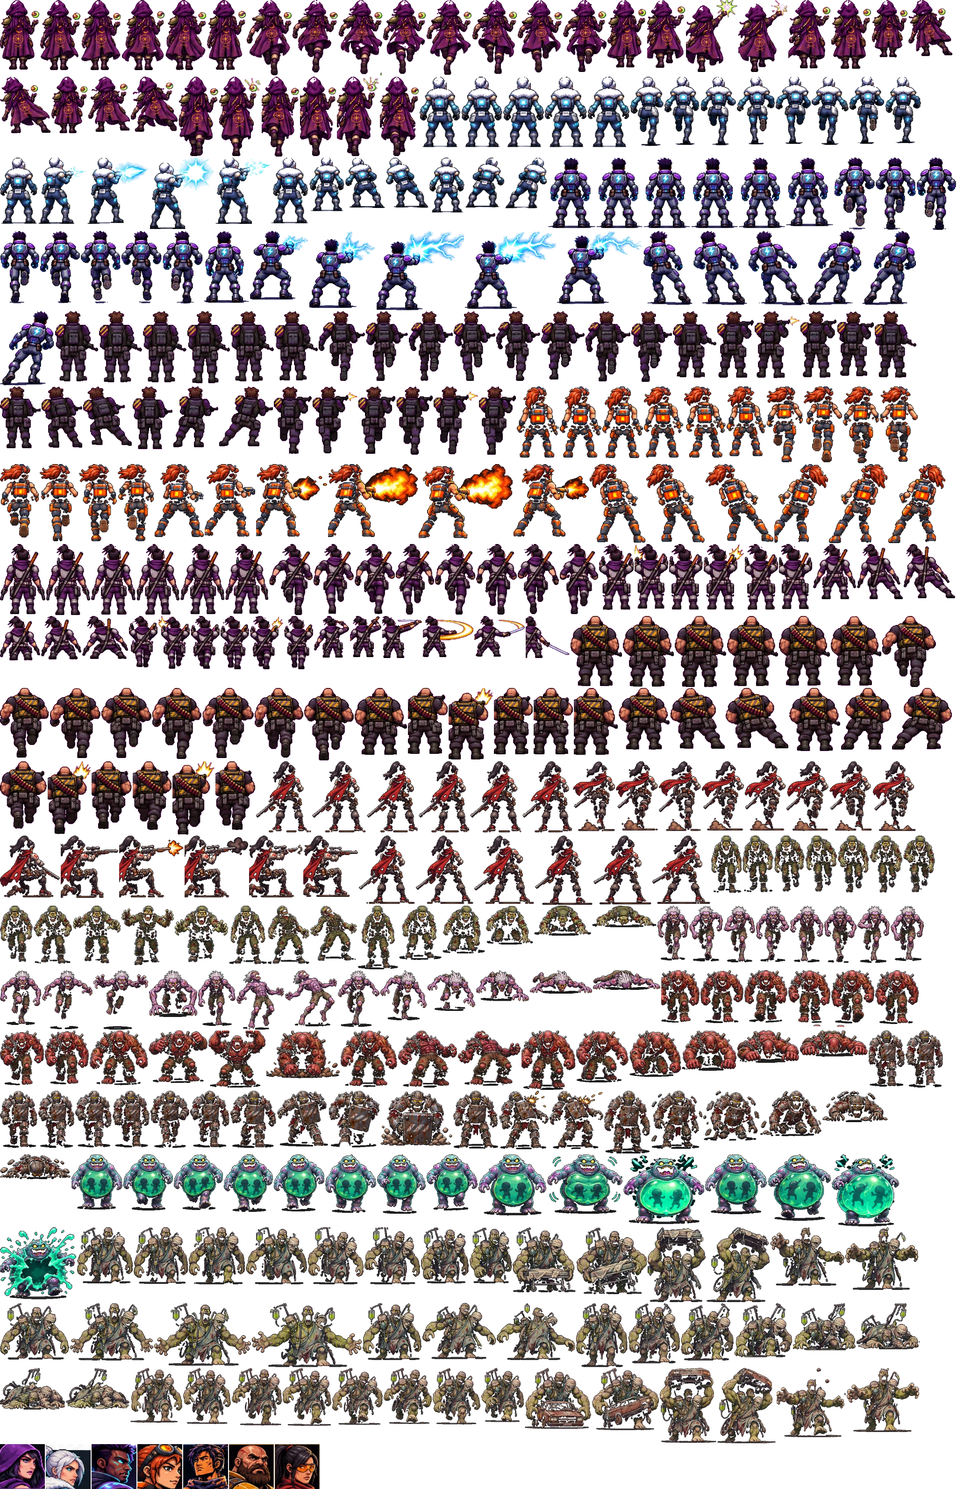
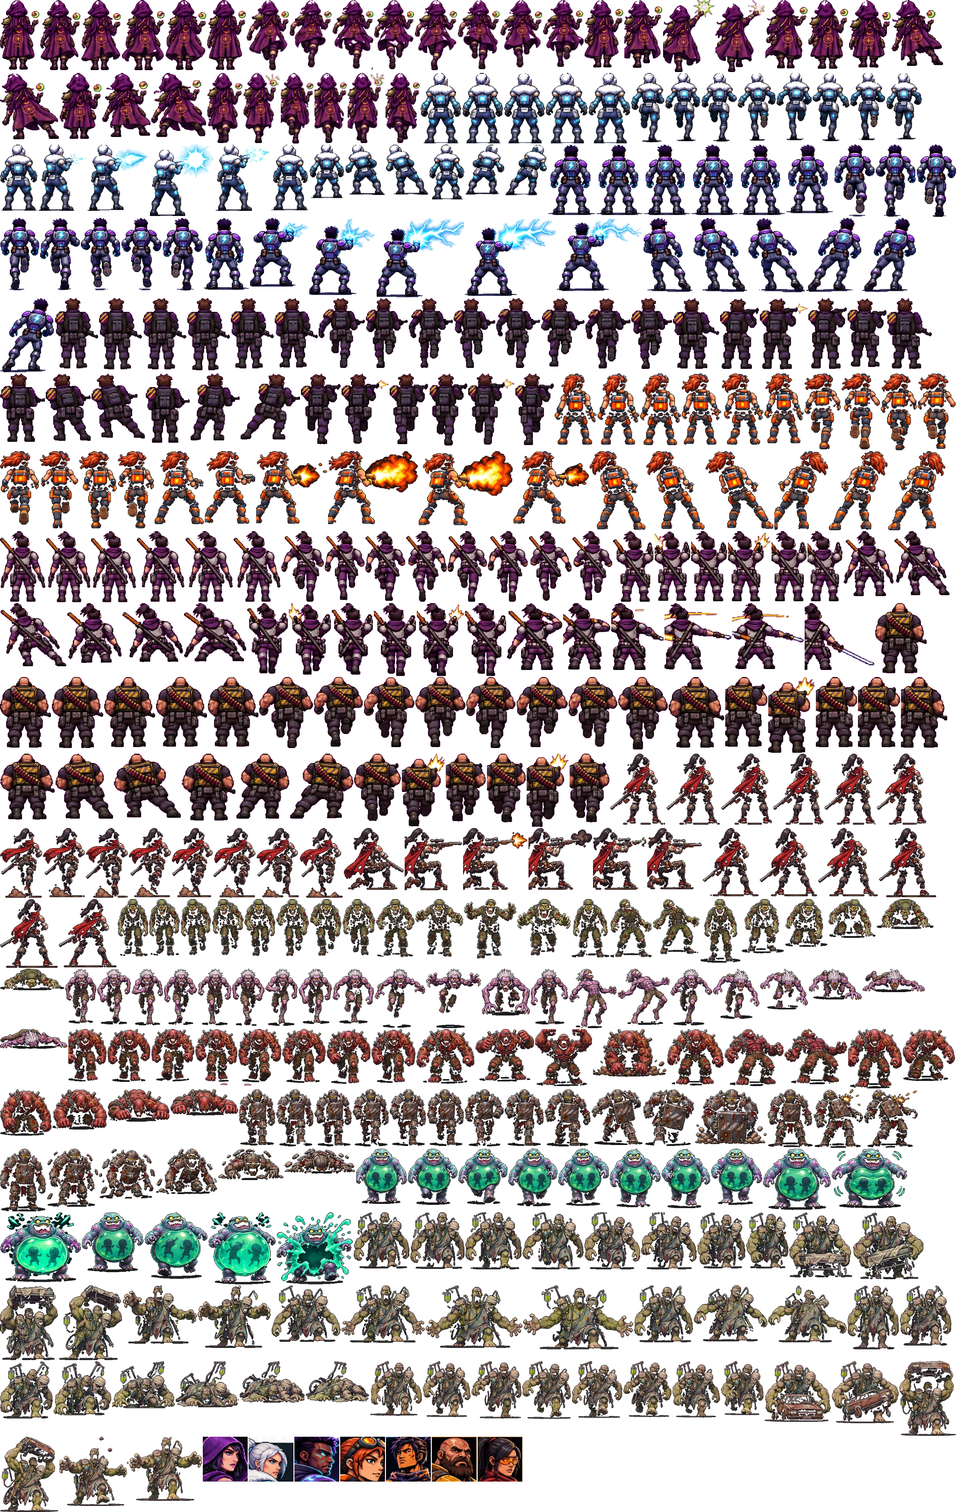
Rook: corrected katana side; keep every hero animation the same size
Claude-Session: https://claude.ai/code/session_011TPi5fyk4GLuTR427GHKeK

diff --git a/game.js b/game.js
@@ -141,8 +141,8 @@ const SND=(()=>{
     set intensity(v){intensity=v;},get pref(){return pref;}};
 })();
 
-const ATLAS_SRC="assets/atlas.webp?v=e161c6fba7";
-const ATL_DATA={"rects":[[0,0,84,149,42,150],[86,0,86,150,43,150],[174,0,85,150,42,150],[261,0,91,150,45,150],[354,0,87,150,43,150],[443,0,83,150,41,150],[528,0,96,161,48,161],[626,0,97,155,48,161],[725,0,93,162,46,161],[820,0,91,158,45,161],[913,0,96,160,48,160],[1011,0,95,158,47,160],[1108,0,95,155,47,159],[1205,0,93,154,46,159],[1300,0,83,145,36,145],[1385,0,81,145,36,145],[1468,0,110,154,32,154],[1580,0,105,154,36,154],[1687,0,90,147,39,146],[1779,0,85,147,39,146],[1866,0,76,123,37,123],[1944,0,94,120,47,120],[0,164,108,121,54,120],[110,164,77,121,38,124],[189,164,89,118,44,123],[280,164,100,118,50,121],[382,164,85,170,37,170],[469,164,89,170,37,170],[560,164,80,171,40,170],[642,164,77,170,33,170],[721,164,90,170,34,170],[813,164,83,170,39,170],[898,164,87,151,43,150],[987,164,88,151,44,150],[1077,164,87,151,43,150],[1166,164,90,151,45,150],[1258,164,89,151,44,150],[1349,164,71,149,36,148],[1422,164,75,146,37,147],[1499,164,76,147,38,148],[1577,164,81,145,40,146],[1660,164,75,144,37,145],[1737,164,79,146,39,147],[1818,164,74,144,36,145],[1894,164,77,143,39,147],[0,337,80,142,41,143],[82,337,103,142,39,142],[187,337,131,142,39,144],[320,337,139,153,38,154],[461,337,117,142,39,142],[580,337,80,141,40,140],[662,337,75,115,37,114],[739,337,85,108,42,109],[826,337,91,108,45,109],[919,337,75,118,37,117],[996,337,83,108,42,110],[1081,337,90,109,45,110],[1173,337,101,151,50,150],[1276,337,99,151,49,150],[1377,337,100,151,50,150],[1479,337,100,151,50,150],[1581,337,99,151,49,150],[1682,337,101,147,50,146],[1785,337,87,154,44,154],[1874,337,86,155,43,155],[1962,337,84,155,42,155],[0,494,84,155,42,155],[86,494,85,155,42,155],[173,494,85,155,42,155],[260,494,86,155,43,155],[348,494,86,156,43,155],[436,494,97,154,48,153],[535,494,125,147,44,148],[662,494,142,165,45,165],[806,494,187,170,45,171],[995,494,195,167,54,169],[1192,494,183,157,53,158],[1377,494,105,159,52,158],[1484,494,115,159,56,158],[1601,494,122,159,61,159],[1725,494,118,159,59,158],[1845,494,115,159,58,158],[0,666,116,159,58,158],[118,666,92,150,46,149],[212,666,92,152,46,151],[306,666,93,152,46,151],[401,666,91,154,46,153],[494,666,92,150,46,149],[588,666,92,148,46,147],[682,666,99,149,49,148],[783,666,90,149,45,149],[875,666,94,149,46,151],[971,666,89,149,44,149],[1062,666,94,149,46,149],[1158,666,93,146,46,149],[1253,666,96,150,47,150],[1351,666,87,151,43,151],[1440,666,93,142,39,141],[1535,666,78,142,33,142],[1615,666,96,143,34,142],[1713,666,77,142,34,141],[1792,666,78,139,35,138],[1872,666,89,142,38,141],[0,827,87,132,43,132],[89,827,87,131,43,130],[178,827,104,127,52,127],[284,827,85,134,42,133],[371,827,96,130,47,130],[469,827,115,128,57,128],[586,827,81,144,34,143],[669,827,96,143,35,143],[767,827,79,144,32,143],[848,827,78,146,33,146],[928,827,95,145,33,144],[1025,827,79,146,32,145],[1106,827,90,152,45,150],[1198,827,89,152,45,150],[1289,827,87,153,44,151],[1378,827,84,152,42,150],[1464,827,89,152,45,150],[1555,827,84,149,42,147],[1641,827,77,162,38,160],[1720,827,82,162,41,160],[1804,827,77,164,38,162],[1883,827,81,161,40,159],[0,993,83,157,41,163],[85,993,82,165,41,163],[169,993,81,165,41,163],[252,993,77,165,38,163],[331,993,105,156,52,155],[438,993,108,155,45,153],[548,993,152,155,41,153],[702,993,192,156,46,155],[896,993,201,159,52,157],[1099,993,161,155,55,153],[1262,993,119,168,59,167],[1383,993,125,168,63,166],[1510,993,145,166,73,165],[1657,993,115,168,56,166],[1774,993,125,169,62,167],[1901,993,122,169,61,167],[0,1164,97,150,49,150],[99,1164,94,152,47,151],[195,1164,95,151,47,150],[292,1164,92,151,46,150],[386,1164,94,150,47,150],[482,1164,92,149,46,148],[576,1164,93,152,47,151],[671,1164,86,150,43,151],[759,1164,86,150,43,151],[847,1164,82,151,41,150],[931,1164,86,151,43,150],[1019,1164,87,151,43,150],[1108,1164,88,150,44,150],[1198,1164,82,150,41,150],[1282,1164,74,141,37,140],[1358,1164,72,139,35,139],[1432,1164,72,141,34,140],[1506,1164,86,140,35,140],[1594,1164,71,141,34,140],[1667,1164,71,140,34,139],[1740,1164,92,118,46,118],[1834,1164,98,118,49,117],[1934,1164,110,116,55,115],[0,1318,86,95,43,94],[88,1318,86,93,43,92],[176,1318,98,92,49,92],[276,1318,61,110,28,109],[339,1318,67,113,35,112],[408,1318,62,113,29,112],[472,1318,61,114,31,113],[535,1318,71,114,29,113],[608,1318,62,114,32,113],[672,1318,75,89,31,89],[749,1318,67,88,29,88],[818,1318,85,90,24,90],[905,1318,108,88,24,88],[1015,1318,108,87,30,87],[1125,1318,94,90,40,89],[1221,1318,110,150,55,150],[1333,1318,109,151,54,151],[1444,1318,110,152,55,152],[1556,1318,109,150,54,150],[1667,1318,109,149,54,148],[1778,1318,108,149,54,149],[1888,1318,115,152,57,154],[0,1472,105,149,52,153],[107,1472,108,150,54,154],[217,1472,107,150,53,153],[326,1472,105,152,52,154],[433,1472,110,150,56,154],[545,1472,104,149,52,155],[651,1472,106,155,53,157],[759,1472,112,143,52,142],[873,1472,85,141,36,140],[960,1472,95,153,37,152],[1057,1472,83,142,36,141],[1142,1472,84,142,35,141],[1228,1472,94,143,36,142],[1324,1472,109,132,54,131],[1435,1472,116,130,57,130],[1553,1472,134,130,67,130],[1689,1472,109,135,54,135],[1800,1472,107,132,53,133],[1909,1472,128,132,63,133],[0,1629,100,144,50,144],[102,1629,92,156,37,156],[196,1629,86,145,37,145],[284,1629,83,147,37,147],[369,1629,90,157,34,156],[461,1629,85,147,37,147],[548,1629,118,152,54,150],[668,1629,115,152,55,150],[785,1629,109,152,55,150],[896,1629,108,152,54,150],[1006,1629,110,152,54,150],[1118,1629,106,152,53,150],[1226,1629,90,150,46,148],[1318,1629,90,148,45,148],[1410,1629,90,149,45,148],[1502,1629,90,148,45,148],[1594,1629,87,148,43,148],[1683,1629,90,149,45,148],[1775,1629,91,149,45,148],[1868,1629,92,149,46,148],[0,1788,128,132,55,130],[130,1788,123,133,41,131],[255,1788,138,132,41,130],[395,1788,136,132,43,130],[533,1788,114,132,44,130],[649,1788,117,131,41,129],[768,1788,120,146,59,144],[890,1788,123,146,60,144],[1015,1788,128,146,63,144],[1145,1788,123,148,61,146],[1270,1788,124,147,62,145],[1396,1788,124,146,61,144],[1522,1788,65,123,32,121],[1589,1788,66,121,33,120],[1657,1788,65,120,32,119],[1724,1788,67,120,33,119],[1793,1788,66,122,33,121],[1861,1788,70,122,35,121],[1933,1788,68,121,33,120],[0,1938,70,120,35,119],[72,1938,82,124,41,123],[156,1938,102,123,50,122],[260,1938,112,127,56,125],[374,1938,114,121,57,119],[490,1938,81,125,41,123],[573,1938,89,125,44,124],[664,1938,100,118,50,117],[766,1938,86,136,43,135],[854,1938,91,116,45,115],[947,1938,91,102,45,102],[1040,1938,101,83,47,82],[1143,1938,122,64,58,63],[1267,1938,138,46,65,45],[1407,1938,66,117,33,115],[1475,1938,72,119,36,118],[1549,1938,67,121,33,121],[1618,1938,71,120,35,119],[1691,1938,71,121,35,121],[1764,1938,69,122,34,121],[1835,1938,69,122,34,121],[1906,1938,71,118,35,117],[0,2076,88,117,44,115],[90,2076,108,126,54,125],[200,2076,117,127,59,126],[319,2076,103,100,51,98],[424,2076,80,119,40,117],[506,2076,102,127,51,126],[610,2076,111,120,55,119],[723,2076,89,121,44,122],[814,2076,99,107,49,107],[915,2076,102,87,51,87],[1019,2076,113,67,56,66],[1134,2076,133,50,67,52],[1269,2076,144,42,72,41],[1415,2076,82,112,41,118],[1499,2076,92,113,46,120],[1593,2076,92,112,46,118],[1687,2076,90,120,45,119],[1779,2076,92,121,46,120],[1873,2076,93,115,46,122],[0,2205,94,117,47,123],[96,2205,94,115,47,122],[192,2205,124,117,62,116],[318,2205,126,112,63,112],[446,2205,122,122,61,122],[570,2205,157,102,76,101],[729,2205,121,121,60,120],[852,2205,126,122,63,121],[980,2205,134,118,67,117],[1116,2205,115,127,57,126],[1233,2205,112,111,56,110],[1347,2205,110,99,55,98],[1459,2205,117,86,58,85],[1578,2205,132,69,66,68],[1712,2205,145,56,71,55],[1859,2205,77,120,38,119],[1938,2205,80,122,40,120],[0,2334,80,122,40,120],[82,2334,77,122,38,121],[161,2334,78,121,39,120],[241,2334,79,121,39,120],[322,2334,83,122,41,120],[407,2334,84,121,42,120],[493,2334,98,122,49,124],[593,2334,109,119,54,120],[704,2334,108,121,54,121],[814,2334,154,117,77,116],[970,2334,96,124,48,123],[1068,2334,106,125,53,124],[1176,2334,115,125,58,124],[1293,2334,99,134,49,132],[1394,2334,109,124,51,123],[1505,2334,120,107,60,106],[1627,2334,131,97,65,97],[1760,2334,140,67,69,67],[0,2470,151,53,75,53],[153,2470,109,118,54,118],[264,2470,106,120,53,119],[372,2470,105,119,52,118],[479,2470,105,123,52,122],[586,2470,108,122,54,121],[696,2470,109,125,55,125],[807,2470,104,127,52,126],[913,2470,109,120,55,118],[1024,2470,145,131,72,132],[1171,2470,161,127,81,127],[1334,2470,173,149,86,148],[1509,2470,132,128,66,127],[1643,2470,135,142,67,140],[1780,2470,144,154,72,153],[0,2626,163,154,83,153],[165,2626,119,120,59,119],[286,2626,116,121,58,120],[404,2626,120,122,60,120],[526,2626,131,122,65,120],[659,2626,119,122,59,120],[780,2626,119,122,59,120],[901,2626,102,120,51,118],[1005,2626,90,120,45,118],[1097,2626,135,139,68,137],[1234,2626,150,143,76,141],[1386,2626,124,160,61,159],[1512,2626,135,160,64,159],[1649,2626,158,125,76,123],[1809,2626,156,134,77,132],[0,2788,148,121,74,121],[150,2788,178,123,89,123],[330,2788,207,134,103,133],[539,2788,235,137,117,135],[776,2788,126,122,63,120],[904,2788,157,120,78,118],[1063,2788,168,122,84,120],[1233,2788,110,137,55,136],[1345,2788,110,129,55,128],[1457,2788,113,123,56,122],[1572,2788,123,116,61,114],[1697,2788,134,101,66,100],[1833,2788,135,99,66,97],[0,2927,139,89,69,87],[141,2927,136,88,68,86],[279,2927,111,117,55,116],[392,2927,102,120,51,119],[496,2927,107,123,54,122],[605,2927,104,124,52,123],[711,2927,108,122,54,121],[821,2927,103,120,51,120],[926,2927,102,121,51,120],[1030,2927,91,116,45,115],[1123,2927,142,130,71,129],[1267,2927,143,133,71,132],[1412,2927,121,160,61,159],[1535,2927,125,161,62,160],[1662,2927,148,148,77,147],[1812,2927,155,137,76,136],[0,3090,96,96,0,0],[98,3090,96,96,0,0],[196,3090,96,96,0,0],[294,3090,96,96,0,0],[392,3090,96,96,0,0],[490,3090,96,96,0,0],[588,3090,96,96,0,0]],"meta":{"hex":{"idle":[0,1,2,3,4,5],"run":[6,7,8,9,10,11,12,13],"shoot":[14,15,16,17,18,19],"leanL":[20,21,22],"leanR":[23,24,25],"wshoot":[26,27,28,29,30,31]},"frost":{"idle":[32,33,34,35,36],"run":[37,38,39,40,41,42,43,44],"shoot":[45,46,47,48,49,50],"leanL":[51,52,53],"leanR":[54,55,56]},"volt":{"idle":[57,58,59,60,61,62],"run":[63,64,65,66,67,68,69,70],"shoot":[71,72,73,74,75,76],"leanL":[77,78,79],"leanR":[80,81,82]},"cmd":{"idle":[83,84,85,86,87,88],"run":[89,90,91,92,93,94,95,96],"shoot":[97,98,99,100,101,102],"leanL":[103,104,105],"leanR":[106,107,108],"wshoot":[109,110,111,112,113,114]},"blaze":{"idle":[115,116,117,118,119,120],"run":[121,122,123,124,125,126,127,128],"shoot":[129,130,131,132,133,134],"leanL":[135,136,137],"leanR":[138,139,140]},"rook":{"idle":[141,142,143,144,145,146],"run":[147,148,149,150,151,152,153,154],"shoot":[155,156,157,158,159,160],"leanL":[161,162,163],"leanR":[164,165,166],"wshoot":[167,168,169,170,171,172],"slash":[173,174,175,176,177,178]},"bruno":{"idle":[179,180,181,182,183,184],"run":[185,186,187,188,189,190,191,192],"shoot":[193,194,195,196,197,198],"leanL":[199,200,201],"leanR":[202,203,204],"wshoot":[205,206,207,208,209,210]},"nova":{"idle":[211,212,213,214,215,216],"run":[217,218,219,220,221,222,223,224],"shoot":[225,226,227,228,229,230],"leanL":[231,232,233],"leanR":[234,235,236]},"grunt":{"walk":[237,238,239,240,241,242,243,244],"attack":[245,246,247,248],"hit":[249,250,251],"death":[252,253,254,255,256,257]},"runner":{"walk":[258,259,260,261,262,263,264,265],"attack":[266,267,268,269],"hit":[270,271,272],"death":[273,274,275,276,277,278]},"brute":{"walk":[279,280,281,282,283,284,285,286],"attack":[287,288,289,290],"hit":[291,292,293],"death":[294,295,296,297,298,299]},"armored":{"walk":[300,301,302,303,304,305,306,307],"attack":[308,309,310,311],"hit":[312,313,314],"death":[315,316,317,318,319,320]},"splitter":{"walk":[321,322,323,324,325,326,327,328],"hit":[329,330,331],"death":[332,333,334,335]},"boss":{"walk":[336,337,338,339,340,341,342,343],"throw":[344,345,346,347,348,349],"roar":[350,351,352,353],"hit":[354,355,356],"death":[357,358,359,360,361,362,363,364]},"boss2":{"walk":[365,366,367,368,369,370,371,372],"throwcar":[373,374,375,376,377,378]},"por":{"hex":379,"frost":380,"volt":381,"blaze":382,"rook":383,"bruno":384,"nova":385}}};
+const ATLAS_SRC="assets/atlas.webp?v=5e32e1c55e";
+const ATL_DATA={"rects":[[0,0,84,149,42,150],[86,0,86,150,43,150],[174,0,85,150,42,150],[261,0,91,150,45,150],[354,0,87,150,43,150],[443,0,83,150,41,150],[528,0,90,150,45,150],[620,0,90,144,45,150],[712,0,87,150,43,150],[801,0,85,148,42,150],[888,0,90,150,45,149],[980,0,89,148,44,149],[1071,0,89,144,44,148],[1162,0,87,143,43,148],[1251,0,83,145,36,145],[1336,0,81,145,36,145],[1419,0,110,154,32,154],[1531,0,105,154,36,154],[1638,0,90,147,39,146],[1730,0,85,147,39,146],[1817,0,89,145,44,145],[1908,0,110,141,55,141],[0,156,126,142,63,141],[128,156,89,141,44,144],[219,156,103,137,52,143],[324,156,117,137,58,140],[443,156,76,150,33,150],[521,156,78,150,32,150],[601,156,70,151,35,151],[673,156,69,150,29,151],[744,156,79,150,30,150],[825,156,73,150,35,150],[900,156,87,151,43,150],[989,156,88,151,44,150],[1079,156,87,151,43,150],[1168,156,90,151,45,150],[1260,156,89,151,44,150],[1351,156,71,149,36,148],[1424,156,75,146,37,147],[1501,156,76,147,38,148],[1579,156,81,145,40,146],[1662,156,75,144,37,145],[1739,156,79,146,39,147],[1820,156,74,144,36,145],[1896,156,77,143,39,147],[0,309,80,142,41,143],[82,309,103,142,39,142],[187,309,131,142,39,144],[320,309,139,153,38,154],[461,309,117,142,39,142],[580,309,80,141,40,140],[662,309,75,115,37,114],[739,309,85,108,42,109],[826,309,91,108,45,109],[919,309,75,118,37,117],[996,309,83,108,42,110],[1081,309,90,109,45,110],[1173,309,101,151,50,150],[1276,309,99,151,49,150],[1377,309,100,151,50,150],[1479,309,100,151,50,150],[1581,309,99,151,49,150],[1682,309,101,147,50,146],[1785,309,87,154,44,154],[1874,309,86,155,43,155],[1962,309,84,155,42,155],[0,466,84,155,42,155],[86,466,85,155,42,155],[173,466,85,155,42,155],[260,466,86,155,43,155],[348,466,86,156,43,155],[436,466,97,154,48,153],[535,466,125,147,44,148],[662,466,142,165,45,165],[806,466,187,170,45,171],[995,466,195,167,54,169],[1192,466,183,157,53,158],[1377,466,105,159,52,158],[1484,466,115,159,56,158],[1601,466,122,159,61,159],[1725,466,118,159,59,158],[1845,466,115,159,58,158],[0,638,116,159,58,158],[118,638,92,150,46,149],[212,638,92,152,46,151],[306,638,93,152,46,151],[401,638,91,154,46,153],[494,638,92,150,46,149],[588,638,92,148,46,147],[682,638,99,149,49,148],[783,638,90,149,45,149],[875,638,94,149,46,151],[971,638,89,149,44,149],[1062,638,94,149,46,149],[1158,638,93,146,46,149],[1253,638,96,150,47,150],[1351,638,87,151,43,151],[1440,638,99,151,41,150],[1541,638,83,151,35,151],[1626,638,102,152,36,151],[1730,638,82,151,36,150],[1814,638,83,147,37,146],[1899,638,95,151,40,150],[0,799,96,146,47,145],[98,799,96,144,47,143],[196,799,114,139,57,140],[312,799,94,148,46,147],[408,799,105,143,52,143],[515,799,127,141,63,141],[644,799,85,151,36,150],[731,799,101,150,37,150],[834,799,82,151,33,150],[918,799,82,154,35,153],[1002,799,99,152,35,151],[1103,799,82,153,34,152],[1187,799,90,152,45,150],[1279,799,89,152,45,150],[1370,799,87,153,44,151],[1459,799,84,152,42,150],[1545,799,89,152,45,150],[1636,799,84,149,42,147],[1722,799,77,162,38,160],[1801,799,82,162,41,160],[1885,799,77,164,38,162],[1964,799,81,161,40,159],[0,965,83,157,41,163],[85,965,82,165,41,163],[169,965,81,165,41,163],[252,965,77,165,38,163],[331,965,105,156,52,155],[438,965,108,155,45,153],[548,965,152,155,41,153],[702,965,192,156,46,155],[896,965,201,159,52,157],[1099,965,161,155,55,153],[1262,965,119,168,59,167],[1383,965,125,168,63,166],[1510,965,145,166,73,165],[1657,965,115,168,56,166],[1774,965,125,169,62,167],[1901,965,122,169,61,167],[0,1136,97,151,49,150],[99,1136,94,152,47,151],[195,1136,96,152,48,151],[293,1136,102,151,50,150],[397,1136,101,151,50,150],[500,1136,100,151,49,150],[602,1136,91,151,45,150],[695,1136,85,148,43,150],[782,1136,85,149,42,151],[869,1136,87,151,44,150],[958,1136,84,151,42,150],[1044,1136,86,151,43,150],[1132,1136,91,149,45,150],[1225,1136,85,148,42,150],[1312,1136,87,151,47,150],[1401,1136,76,149,38,148],[1479,1136,77,150,38,149],[1558,1136,91,150,38,149],[1651,1136,75,150,37,149],[1728,1136,75,150,37,149],[1805,1136,107,139,53,138],[1914,1136,118,137,59,136],[0,1290,142,135,71,134],[144,1290,116,128,58,127],[262,1290,130,126,64,124],[394,1290,133,125,67,123],[529,1290,87,151,41,150],[618,1290,90,153,48,152],[710,1290,88,153,46,152],[800,1290,90,156,49,155],[892,1290,101,156,45,155],[995,1290,88,156,48,155],[1085,1290,118,143,50,143],[1205,1290,101,142,46,142],[1308,1290,112,143,38,143],[1422,1290,143,142,40,142],[1567,1290,153,141,48,141],[1722,1290,149,143,64,142],[1873,1290,110,150,55,150],[0,1448,109,151,54,151],[111,1448,110,152,55,152],[223,1448,109,150,54,150],[334,1448,109,149,54,148],[445,1448,108,149,54,149],[555,1448,115,152,57,154],[672,1448,105,149,52,153],[779,1448,108,150,54,154],[889,1448,107,150,53,153],[998,1448,105,152,52,154],[1105,1448,110,150,56,154],[1217,1448,104,149,52,155],[1323,1448,106,155,53,157],[1431,1448,119,151,55,150],[1552,1448,90,149,38,148],[1644,1448,100,162,39,161],[1746,1448,88,150,38,149],[1836,1448,90,150,37,149],[1928,1448,99,151,38,150],[0,1612,117,141,58,140],[119,1612,123,139,61,139],[244,1612,143,138,72,138],[389,1612,115,143,57,142],[506,1612,113,139,56,140],[621,1612,135,139,67,140],[758,1612,100,144,50,144],[860,1612,92,156,37,156],[954,1612,86,145,37,145],[1042,1612,83,147,37,147],[1127,1612,90,157,34,156],[1219,1612,85,147,37,147],[1306,1612,118,152,54,150],[1426,1612,115,152,55,150],[1543,1612,109,152,55,150],[1654,1612,108,152,54,150],[1764,1612,110,152,54,150],[1876,1612,106,152,53,150],[0,1771,90,150,46,148],[92,1771,90,148,45,148],[184,1771,90,149,45,148],[276,1771,90,148,45,148],[368,1771,87,148,43,148],[457,1771,90,149,45,148],[549,1771,91,149,45,148],[642,1771,92,149,46,148],[736,1771,128,132,55,130],[866,1771,123,133,41,131],[991,1771,138,132,41,130],[1131,1771,136,132,43,130],[1269,1771,114,132,44,130],[1385,1771,117,131,41,129],[1504,1771,120,146,59,144],[1626,1771,123,146,60,144],[1751,1771,128,146,63,144],[1881,1771,123,148,61,146],[0,1923,124,147,62,145],[126,1923,124,146,61,144],[252,1923,65,123,32,121],[319,1923,66,121,33,120],[387,1923,65,120,32,119],[454,1923,67,120,33,119],[523,1923,66,122,33,121],[591,1923,70,122,35,121],[663,1923,68,121,33,120],[733,1923,70,120,35,119],[805,1923,82,124,41,123],[889,1923,102,123,50,122],[993,1923,112,127,56,125],[1107,1923,114,121,57,119],[1223,1923,81,125,41,123],[1306,1923,89,125,44,124],[1397,1923,100,118,50,117],[1499,1923,86,136,43,135],[1587,1923,91,116,45,115],[1680,1923,91,102,45,102],[1773,1923,101,83,47,82],[1876,1923,122,64,58,63],[0,2072,138,46,65,45],[140,2072,66,117,33,115],[208,2072,72,119,36,118],[282,2072,67,121,33,121],[351,2072,71,120,35,119],[424,2072,71,121,35,121],[497,2072,69,122,34,121],[568,2072,69,122,34,121],[639,2072,71,118,35,117],[712,2072,88,117,44,115],[802,2072,108,126,54,125],[912,2072,117,127,59,126],[1031,2072,103,100,51,98],[1136,2072,80,119,40,117],[1218,2072,102,127,51,126],[1322,2072,111,120,55,119],[1435,2072,89,121,44,122],[1526,2072,99,107,49,107],[1627,2072,102,87,51,87],[1731,2072,113,67,56,66],[1846,2072,133,50,67,52],[0,2201,144,42,72,41],[146,2201,82,112,41,118],[230,2201,92,113,46,120],[324,2201,92,112,46,118],[418,2201,90,120,45,119],[510,2201,92,121,46,120],[604,2201,93,115,46,122],[699,2201,94,117,47,123],[795,2201,94,115,47,122],[891,2201,124,117,62,116],[1017,2201,126,112,63,112],[1145,2201,122,122,61,122],[1269,2201,157,102,76,101],[1428,2201,121,121,60,120],[1551,2201,126,122,63,121],[1679,2201,134,118,67,117],[1815,2201,115,127,57,126],[1932,2201,112,111,56,110],[0,2330,110,99,55,98],[112,2330,117,86,58,85],[231,2330,132,69,66,68],[365,2330,145,56,71,55],[512,2330,77,120,38,119],[591,2330,80,122,40,120],[673,2330,80,122,40,120],[755,2330,77,122,38,121],[834,2330,78,121,39,120],[914,2330,79,121,39,120],[995,2330,83,122,41,120],[1080,2330,84,121,42,120],[1166,2330,98,122,49,124],[1266,2330,109,119,54,120],[1377,2330,108,121,54,121],[1487,2330,154,117,77,116],[1643,2330,96,124,48,123],[1741,2330,106,125,53,124],[1849,2330,115,125,58,124],[0,2457,99,134,49,132],[101,2457,109,124,51,123],[212,2457,120,107,60,106],[334,2457,131,97,65,97],[467,2457,140,67,69,67],[609,2457,151,53,75,53],[762,2457,109,118,54,118],[873,2457,106,120,53,119],[981,2457,105,119,52,118],[1088,2457,105,123,52,122],[1195,2457,108,122,54,121],[1305,2457,109,125,55,125],[1416,2457,104,127,52,126],[1522,2457,109,120,55,118],[1633,2457,145,131,72,132],[1780,2457,161,127,81,127],[0,2593,173,149,86,148],[175,2593,132,128,66,127],[309,2593,135,142,67,140],[446,2593,144,154,72,153],[592,2593,163,154,83,153],[757,2593,119,120,59,119],[878,2593,116,121,58,120],[996,2593,120,122,60,120],[1118,2593,131,122,65,120],[1251,2593,119,122,59,120],[1372,2593,119,122,59,120],[1493,2593,102,120,51,118],[1597,2593,90,120,45,118],[1689,2593,135,139,68,137],[1826,2593,150,143,76,141],[0,2749,124,160,61,159],[126,2749,135,160,64,159],[263,2749,158,125,76,123],[423,2749,156,134,77,132],[581,2749,148,121,74,121],[731,2749,178,123,89,123],[911,2749,207,134,103,133],[1120,2749,235,137,117,135],[1357,2749,126,122,63,120],[1485,2749,157,120,78,118],[1644,2749,168,122,84,120],[1814,2749,110,137,55,136],[1926,2749,110,129,55,128],[0,2911,113,123,56,122],[115,2911,123,116,61,114],[240,2911,134,101,66,100],[376,2911,135,99,66,97],[513,2911,139,89,69,87],[654,2911,136,88,68,86],[792,2911,111,117,55,116],[905,2911,102,120,51,119],[1009,2911,107,123,54,122],[1118,2911,104,124,52,123],[1224,2911,108,122,54,121],[1334,2911,103,120,51,120],[1439,2911,102,121,51,120],[1543,2911,91,116,45,115],[1636,2911,142,130,71,129],[1780,2911,143,133,71,132],[1925,2911,121,160,61,159],[0,3073,125,161,62,160],[127,3073,148,148,77,147],[277,3073,155,137,76,136],[434,3073,96,96,0,0],[532,3073,96,96,0,0],[630,3073,96,96,0,0],[728,3073,96,96,0,0],[826,3073,96,96,0,0],[924,3073,96,96,0,0],[1022,3073,96,96,0,0]],"meta":{"hex":{"idle":[0,1,2,3,4,5],"run":[6,7,8,9,10,11,12,13],"shoot":[14,15,16,17,18,19],"leanL":[20,21,22],"leanR":[23,24,25],"wshoot":[26,27,28,29,30,31]},"frost":{"idle":[32,33,34,35,36],"run":[37,38,39,40,41,42,43,44],"shoot":[45,46,47,48,49,50],"leanL":[51,52,53],"leanR":[54,55,56]},"volt":{"idle":[57,58,59,60,61,62],"run":[63,64,65,66,67,68,69,70],"shoot":[71,72,73,74,75,76],"leanL":[77,78,79],"leanR":[80,81,82]},"cmd":{"idle":[83,84,85,86,87,88],"run":[89,90,91,92,93,94,95,96],"shoot":[97,98,99,100,101,102],"leanL":[103,104,105],"leanR":[106,107,108],"wshoot":[109,110,111,112,113,114]},"blaze":{"idle":[115,116,117,118,119,120],"run":[121,122,123,124,125,126,127,128],"shoot":[129,130,131,132,133,134],"leanL":[135,136,137],"leanR":[138,139,140]},"rook":{"idle":[141,142,143,144,145,146],"run":[147,148,149,150,151,152,153,154],"shoot":[155,156,157,158,159,160],"leanL":[161,162,163],"leanR":[164,165,166],"wshoot":[167,168,169,170,171,172],"slash":[173,174,175,176,177,178]},"bruno":{"idle":[179,180,181,182,183,184],"run":[185,186,187,188,189,190,191,192],"shoot":[193,194,195,196,197,198],"leanL":[199,200,201],"leanR":[202,203,204],"wshoot":[205,206,207,208,209,210]},"nova":{"idle":[211,212,213,214,215,216],"run":[217,218,219,220,221,222,223,224],"shoot":[225,226,227,228,229,230],"leanL":[231,232,233],"leanR":[234,235,236]},"grunt":{"walk":[237,238,239,240,241,242,243,244],"attack":[245,246,247,248],"hit":[249,250,251],"death":[252,253,254,255,256,257]},"runner":{"walk":[258,259,260,261,262,263,264,265],"attack":[266,267,268,269],"hit":[270,271,272],"death":[273,274,275,276,277,278]},"brute":{"walk":[279,280,281,282,283,284,285,286],"attack":[287,288,289,290],"hit":[291,292,293],"death":[294,295,296,297,298,299]},"armored":{"walk":[300,301,302,303,304,305,306,307],"attack":[308,309,310,311],"hit":[312,313,314],"death":[315,316,317,318,319,320]},"splitter":{"walk":[321,322,323,324,325,326,327,328],"hit":[329,330,331],"death":[332,333,334,335]},"boss":{"walk":[336,337,338,339,340,341,342,343],"throw":[344,345,346,347,348,349],"roar":[350,351,352,353],"hit":[354,355,356],"death":[357,358,359,360,361,362,363,364]},"boss2":{"walk":[365,366,367,368,369,370,371,372],"throwcar":[373,374,375,376,377,378]},"por":{"hex":379,"frost":380,"volt":381,"blaze":382,"rook":383,"bruno":384,"nova":385}}};
 const RECTS=ATL_DATA.rects, META=ATL_DATA.meta;
 const ATL=new Image(); let atlasReady=false; ATL.onload=()=>{atlasReady=true;ui();}; ATL.src=ATLAS_SRC;
 

diff --git a/index.html b/index.html
@@ -207,13 +207,13 @@ h3{font-size:12px;letter-spacing:.14em;text-transform:uppercase;color:var(--mute
   <div class="overlay" id="ov"></div>
 </div>
 
-<script>window.__VER='1796c48f3f';
+<script>window.__VER='e8706e12de';
 if('serviceWorker' in navigator){navigator.serviceWorker.register('sw.js').catch(()=>{});}
 // when the app comes back from the background, check for a newer version and reload if the player is on a menu
 document.addEventListener('visibilitychange',()=>{if(document.hidden)return;
   fetch('version.json?t='+Date.now(),{cache:'no-store'}).then(r=>r.json()).then(d=>{
     if(d.v&&d.v!==window.__VER&&window.__canReload&&window.__canReload())location.reload();}).catch(()=>{});});
 </script>
-<script src="game.js?v=1796c48f3f"></script>
+<script src="game.js?v=e8706e12de"></script>
 </body>
 </html>
